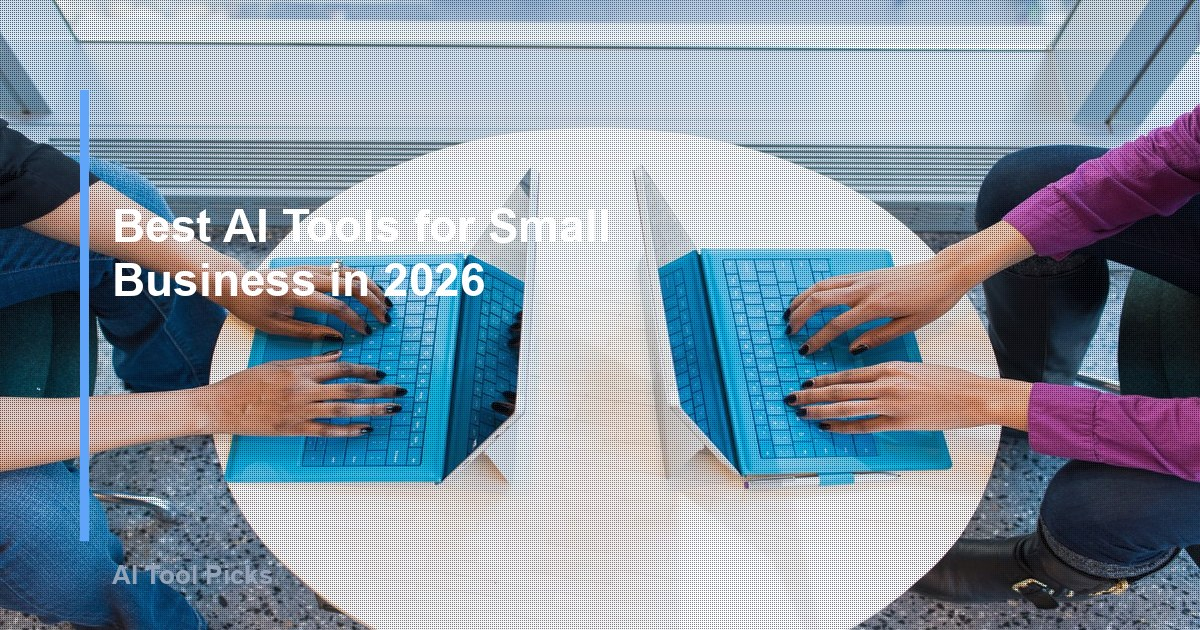
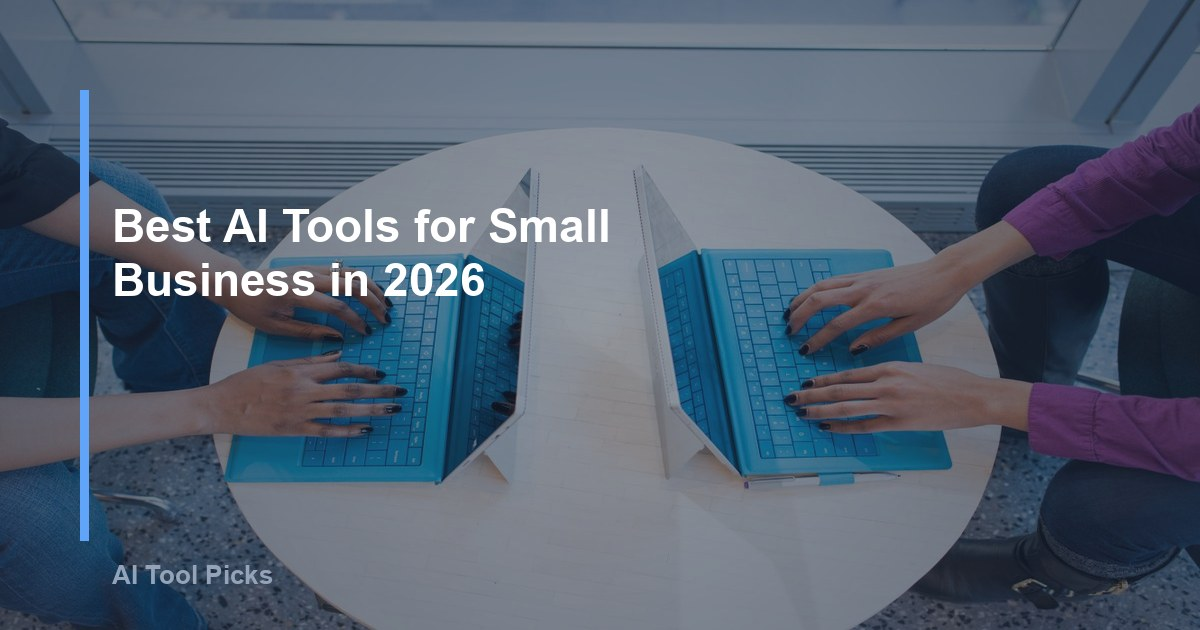
fix: 修复gen_og_gm.py step=2棋盘格bug，4张og图从原底图重做 (GEO/SmallBiz/ChatGPTvs/Grammar)。Verify: grid=0 bar=9px corners=3-4/4 lum=90-143

diff --git a/_tmp_ogsrc/gen_og_gm.py b/_tmp_ogsrc/gen_og_gm.py
@@ -1,0 +1,76 @@
+#!/usr/bin/env python3
+"""
+Golden Master og 图合成脚本（2026-08-05 修正版 · 严格按 IMAGES-MANIFEST §标准模板）
+输入：一张干净底图（真实照片 / 无水印AI图，铺满即可）
+输出：1200x630 og 社交图，套品牌模板。
+
+模板构成（来自 manifest ①-④）：
+  ① 底图 LANCZOS 铺满 1200x630（整张画布都有照片，绝不只贴下半部）
+  ② 品牌遮罩 = 深蓝径向暗角：中心 alpha≈0.45 → 四角≈0.70，颜色 B>G>R (25,38,58)
+  ③ 左侧竖条 rect[80,90, 88,540] 8px 细蓝线，填充渐变蓝 (96,165,250)
+  ④ 白色标题 46px 从 y=200 起、行距54、x=112、wrap30 最多5行；
+     底部(112,560) 品牌标 "AI Tool Picks" 26px (148,163,184)；JPEG q88
+"""
+import sys, math, os
+from PIL import Image, ImageDraw, ImageFont
+
+W, H = 1200, 630
+
+def find_font(size, bold=True):
+    candidates = [
+        "/Library/Fonts/Arial.ttf",
+        "/System/Library/Fonts/Supplemental/Arial Bold.ttf",
+        "/System/Library/Fonts/Supplemental/Arial.ttf",
+        "/Library/Fonts/Helvetica.ttf",
+        "/System/Library/Fonts/Helvetica.ttc",
+    ]
+    for c in candidates:
+        if os.path.exists(c):
+            try:
+                return ImageFont.truetype(c, size)
+            except Exception:
+                pass
+    return ImageFont.load_default()
+
+def make_og(base_path, title, out_path):
+    base = Image.open(base_path).convert("RGB")
+    base = base.resize((W, H), Image.LANCZOS)  # ① 铺满整张画布
+
+    # ② 径向暗角蓝遮罩
+    mask = Image.new("L", (W, H), 0)
+    cx, cy = W / 2.0, H / 2.0
+    maxd = math.hypot(cx, cy)
+    mp = mask.load()
+    step = 1
+    for y in range(0, H, step):
+        for x in range(0, W, step):
+            d = math.hypot(x - cx, y - cy) / maxd  # 0 center -> 1 corner
+            a = int((0.45 + d * (0.70 - 0.45)) * 255)
+            mp[x, y] = a
+    overlay = Image.new("RGB", (W, H), (25, 38, 58))  # 蓝色调 B>G>R
+    img = Image.composite(overlay, base, mask)  # 中心=base(亮) 四角=overlay(暗蓝)
+
+    draw = ImageDraw.Draw(img)
+
+    # ③ 左侧竖条 8px (x:80..88, y:90..540)
+    draw.rectangle([80, 90, 88, 540], fill=(96, 165, 250))
+
+    # ④ 标题
+    font_title = find_font(46)
+    font_brand = find_font(26)
+    import textwrap
+    lines = textwrap.wrap(title, 30)[:5]
+    y = 200
+    for ln in lines:
+        draw.text((112, y), ln, fill=(255, 255, 255), font=font_title)
+        y += 54
+    # 品牌标
+    draw.text((112, 560), "AI Tool Picks", fill=(148, 163, 184), font=font_brand)
+
+    img.save(out_path, "JPEG", quality=88)
+    return out_path
+
+if __name__ == "__main__":
+    base_path, title, out_path = sys.argv[1], sys.argv[2], sys.argv[3]
+    make_og(base_path, title, out_path)
+    print(f"OK {out_path}")
